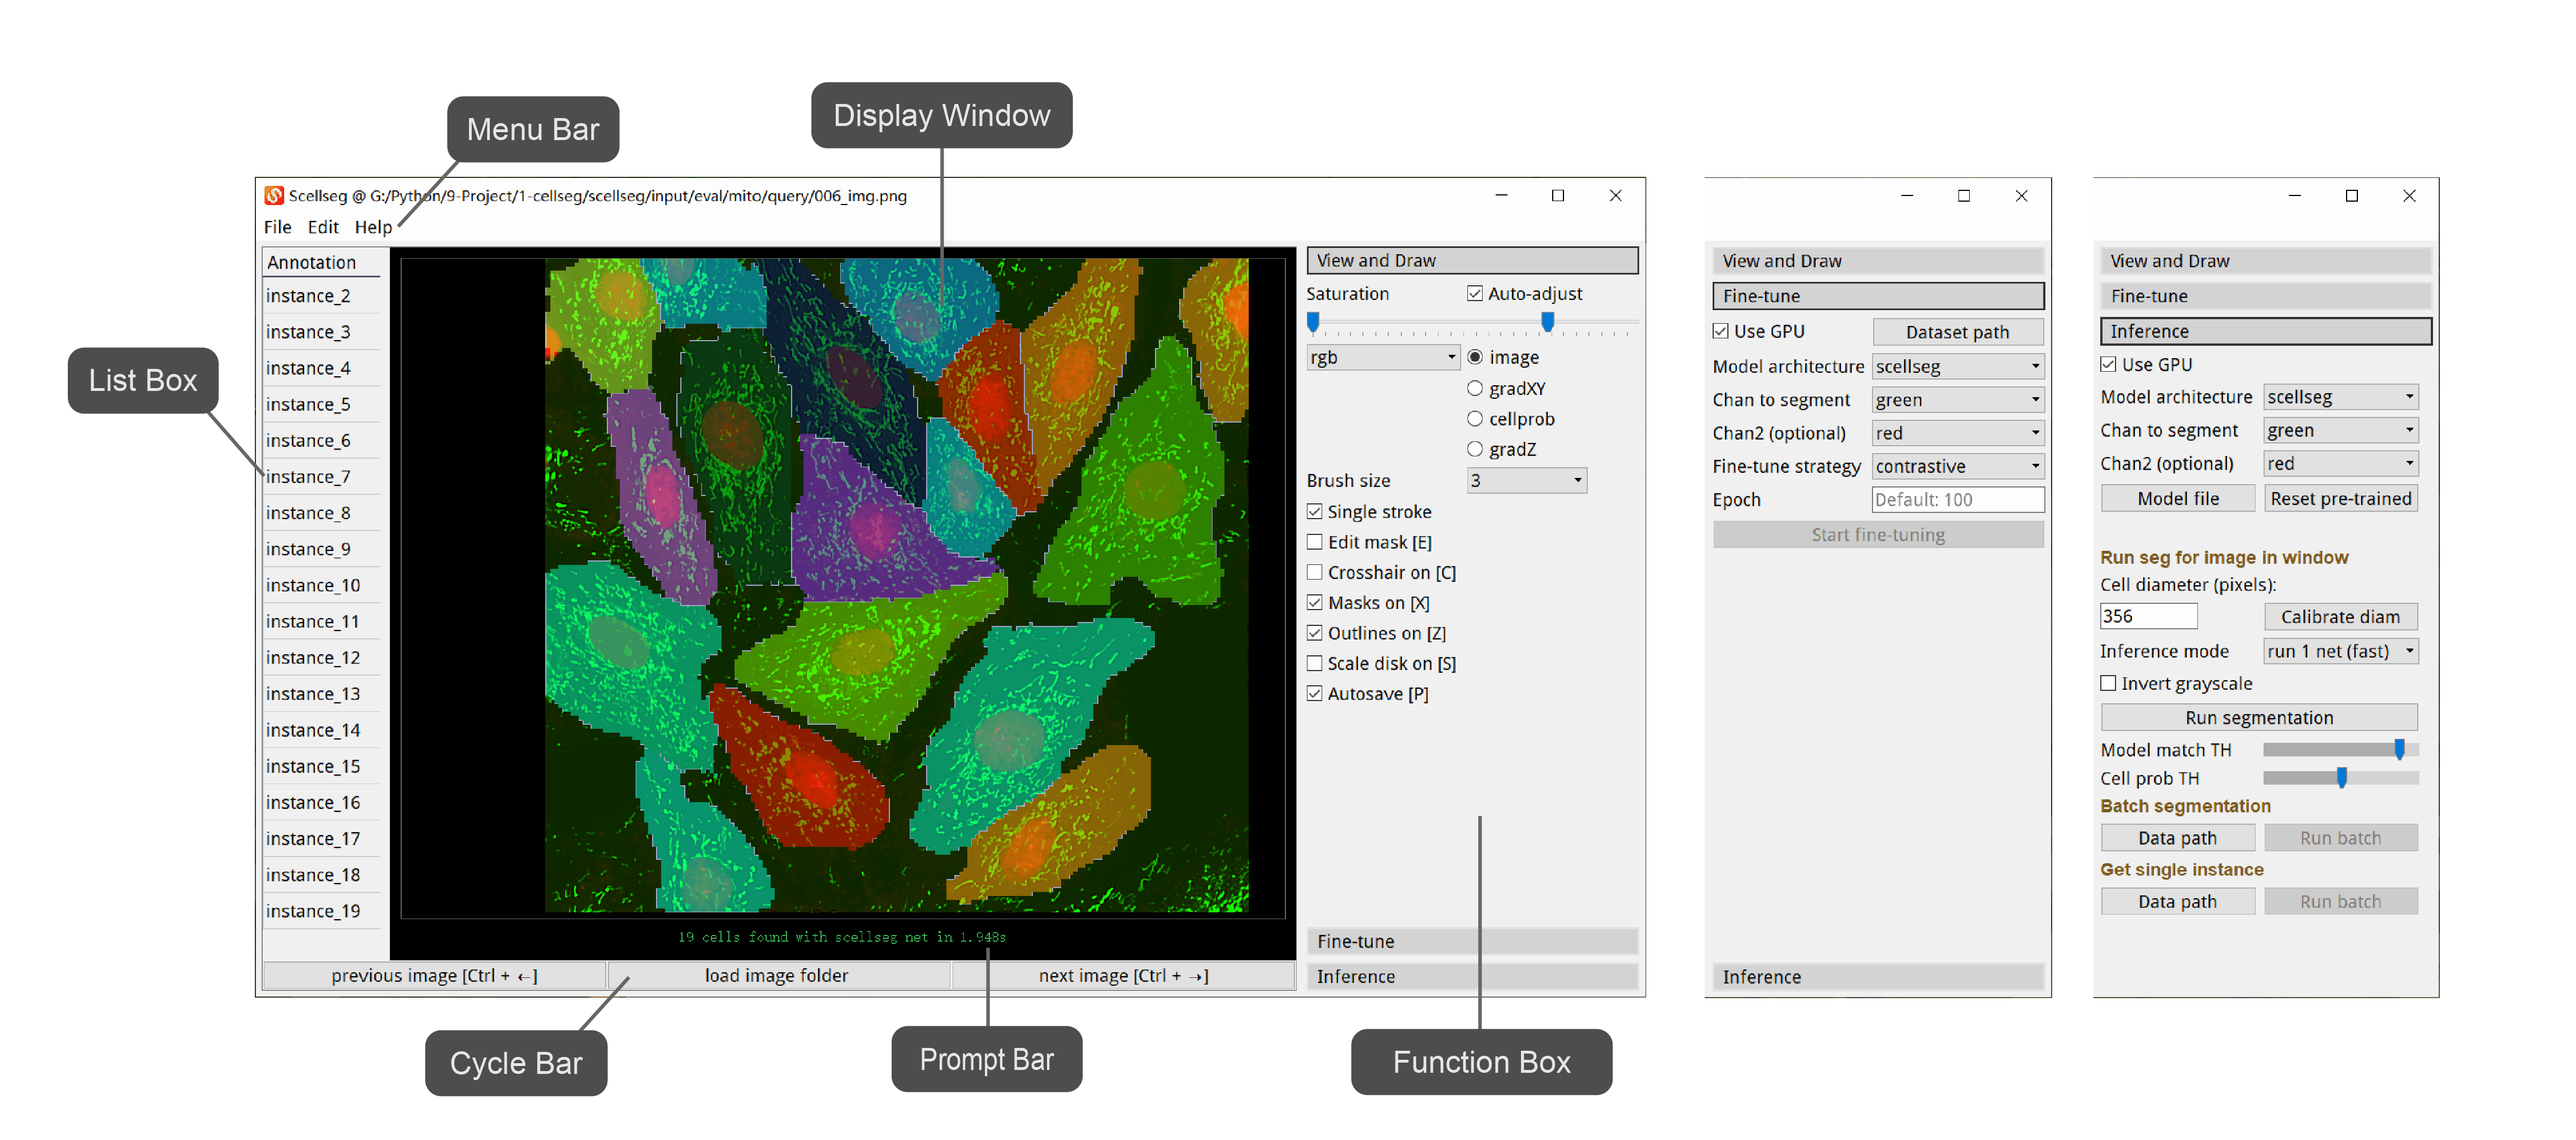
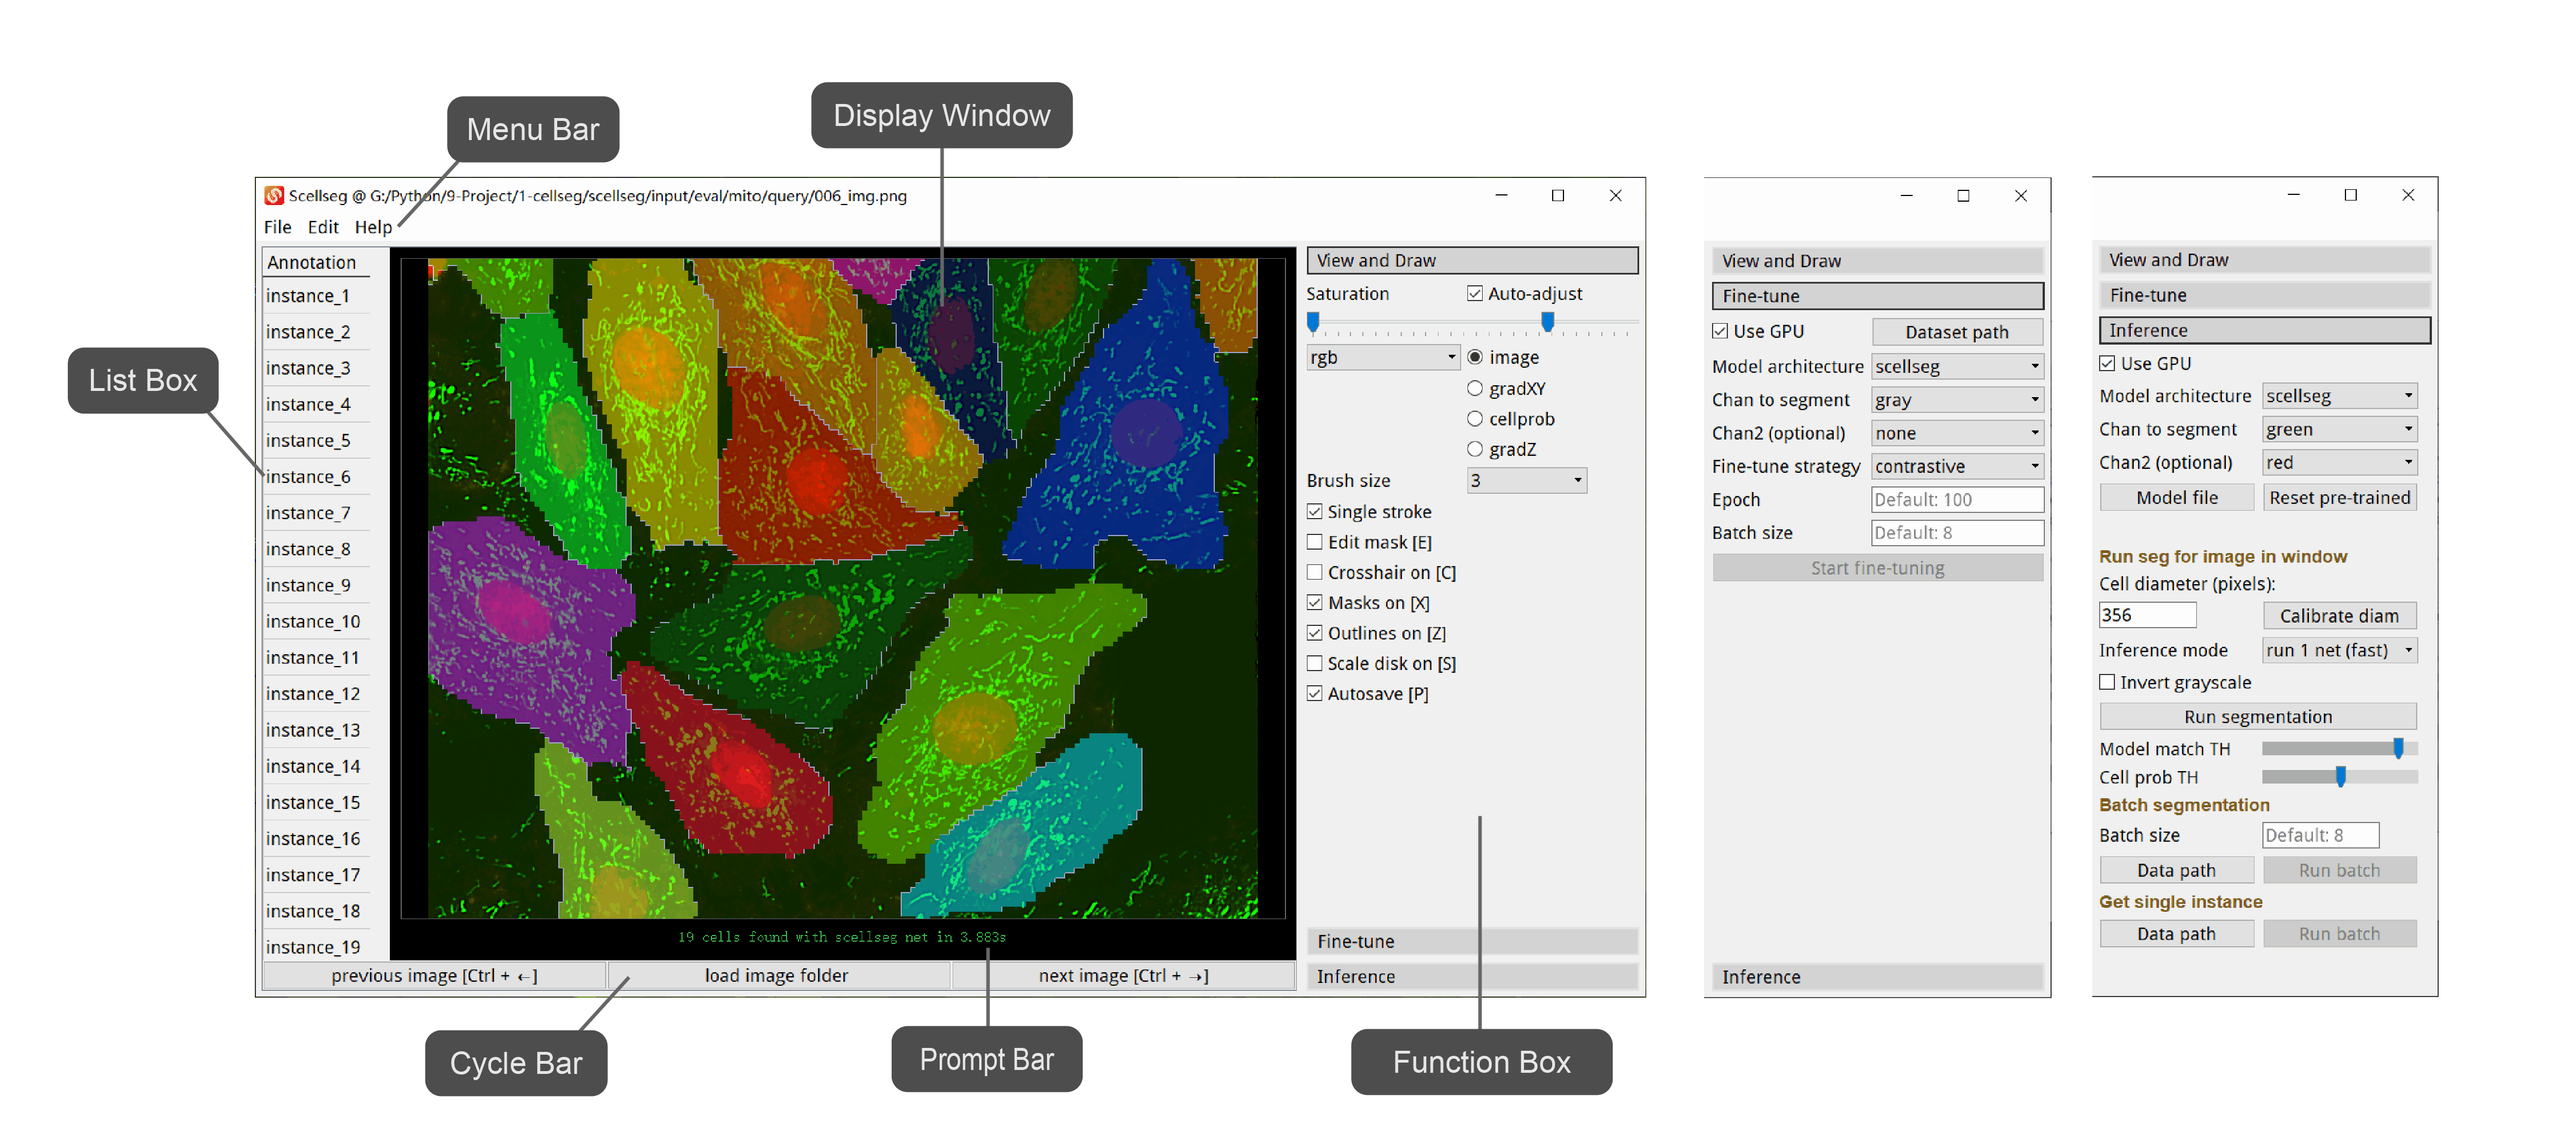
add batch_size

diff --git a/scellseg/guis/scellsegUi.py b/scellseg/guis/scellsegUi.py
@@ -454,6 +454,13 @@ class Ui_MainWindow(QtGui.QMainWindow):
         self.label_batchseg.setObjectName('label_batchseg')
         self.gridLayout_2.addWidget(self.label_batchseg, page2_l, 0, 1, 4)
         page2_l += 1
+        self.label_bz = QtWidgets.QLabel("Batch size")
+        self.gridLayout_2.addWidget(self.label_bz, page2_l, 0, 1, 1)
+        self.bz_line = QtWidgets.QLineEdit()
+        self.bz_line.setPlaceholderText('Default: 8')
+        self.bz_line.setFixedWidth(120)
+        self.gridLayout_2.addWidget(self.bz_line, page2_l, 1, 1, 1)
+        page2_l += 1
         self.dataset_inference_bnt = QtWidgets.QPushButton("Data path")
         self.gridLayout_2.addWidget(self.dataset_inference_bnt, page2_l, 0, 1, 1)
         self.dataset_inference_bnt.clicked.connect(self.batch_inference_dir_choose)
@@ -538,14 +545,20 @@ class Ui_MainWindow(QtGui.QMainWindow):
         self.epoch_line.setPlaceholderText('Default: 100')
         self.gridLayout_3.addWidget(self.epoch_line, 5, 2, 1, 2)
 
+        self.label_ftbz = QtWidgets.QLabel("Batch size")
+        self.gridLayout_3.addWidget(self.label_ftbz, 6, 0, 1, 2)
+        self.ftbz_line = QtWidgets.QLineEdit()
+        self.ftbz_line.setPlaceholderText('Default: 8')
+        self.gridLayout_3.addWidget(self.ftbz_line, 6, 2, 1, 2)
+
         self.ftbnt = QtWidgets.QPushButton("Start fine-tuning")
         self.ftbnt.setObjectName('ftbnt')
         self.ftbnt.clicked.connect(self.fine_tune)
-        self.gridLayout_3.addWidget(self.ftbnt, 6, 0, 1, 4)
+        self.gridLayout_3.addWidget(self.ftbnt, 7, 0, 1, 4)
         self.ftbnt.setEnabled(False)
 
         spacerItem3 = QtWidgets.QSpacerItem(20, 320, QtWidgets.QSizePolicy.Minimum, QtWidgets.QSizePolicy.Expanding)
-        self.gridLayout_3.addItem(spacerItem3, 7, 0, 1, 1)
+        self.gridLayout_3.addItem(spacerItem3, 8, 0, 1, 1)
 
         #initialize scroll size
         self.scroll = QtGui.QScrollBar(QtCore.Qt.Horizontal)
@@ -1296,6 +1309,7 @@ class Ui_MainWindow(QtGui.QMainWindow):
                     dataset_path = None
 
                 # batch inference
+                bz = 8 if self.bz_line.text() == '' else int(self.bz_line.text())
                 save_name = self.current_model + '_' + dataset_path.split('\\')[-1]
                 utils.set_manual_seed(5)
                 try:
@@ -1333,7 +1347,7 @@ class Ui_MainWindow(QtGui.QMainWindow):
                                                        diameter=diameter,
                                                        resample=False, flow_threshold=0.4,
                                                        cellprob_threshold=0.5,
-                                                       min_size=min_size, eval_batch_size=8,
+                                                       min_size=min_size, eval_batch_size=bz,
                                                        postproc_mode=self.model.postproc_mode,
                                                        progress=self.progress)
 
@@ -1712,14 +1726,14 @@ class Ui_MainWindow(QtGui.QMainWindow):
     def fine_tune(self):
         tic = time.time()
 
-        num_batch = 8
         dataset_dir = self.fine_tune_dir
         self.state_label.setText("%s"%(dataset_dir), color='#969696')
 
         if not isinstance(dataset_dir, str):  # TODO: 改成警告
             print('dataset_dir is not provided')
 
-        train_epoch = 100 if self.epoch_line.text() == '' else self.epoch_line.text()
+        train_epoch = 100 if self.epoch_line.text() == '' else int(self.epoch_line.text())
+        ft_bz = 8 if self.ftbz_line.text() == '' else int(self.ftbz_line.text())
         contrast_on = 1 if self.stmodelchooseBnt.currentText() == 'contrastive' else 0
         model_type = self.ftmodelchooseBnt.currentText()
         task_mode, postproc_mode, attn_on, dense_on, style_scale_on = utils.process_different_model(model_type)  # task_mode mean different instance representation
@@ -1728,9 +1742,10 @@ class Ui_MainWindow(QtGui.QMainWindow):
         print(dataset_dir, train_epoch, channels)
         utils.set_manual_seed(5)
         try:
+            print('ft_bz', ft_bz)
             shotset = DatasetShot(eval_dir=dataset_dir, class_name=None, image_filter='_img', mask_filter='_masks',
                                   channels=channels,
-                                  train_num=train_epoch * num_batch, task_mode=task_mode, rescale=True)
+                                  train_num=train_epoch * ft_bz, task_mode=task_mode, rescale=True)
             iopart._initialize_image_portable(self, iopart.imread(self.now_pyfile_path + '/assets/Loading1.png'), resize=self.resize, X2=0)
             self.state_label.setText("Running...", color='#969696')
             QtWidgets.qApp.processEvents()  # force update gui
@@ -1742,12 +1757,7 @@ class Ui_MainWindow(QtGui.QMainWindow):
             self.ftbnt.setEnabled(False)
             return
 
-        project_path = os.path.abspath(os.path.dirname(os.path.dirname(os.getcwd())) + os.path.sep + ".")
-        output_path = os.path.join(project_path, 'output')
-        utils.make_folder(output_path)
-        output_excel_path = os.path.join(output_path, 'excels')
-        utils.make_folder(output_excel_path)
-        shot_gen = DataLoader(dataset=shotset, batch_size=num_batch, num_workers=0, pin_memory=True)
+        shot_gen = DataLoader(dataset=shotset, batch_size=ft_bz, num_workers=0, pin_memory=True)
 
         diameter = shotset.md
         print('>>>> mean diameter of this style,', round(diameter, 3))
@@ -1775,11 +1785,11 @@ class Ui_MainWindow(QtGui.QMainWindow):
         self.state_label.setText("Running...", color='#969696')
         QtWidgets.qApp.processEvents()  # force update gui
 
-        self.model.finetune(shot_gen=shot_gen, lr=lr, lr_schedule_gamma=lr_schedule_gamma, step_size=step_size)
+        self.model.finetune(shot_gen=shot_gen, lr=lr, lr_schedule_gamma=lr_schedule_gamma, step_size=step_size, savepath=dataset_dir)
 
         print('Finished fine-tuning')
         self.img.setImage(iopart.imread(self.now_pyfile_path + '/assets/Loading3.png'), autoLevels=False, lut=None)
-        self.state_label.setText("Finished in %0.3fs, model saved at ./output/fine-tune/%s" %(time.time()-tic, self.model.net.save_name), color='#39B54A')
+        self.state_label.setText("Finished in %0.3fs, model saved at %s/fine-tune/%s" %(time.time()-tic, dataset_dir, self.model.net.save_name), color='#39B54A')
         self.ftbnt.setEnabled(False)
         self.fine_tune_dir = ''
 

diff --git a/scellseg/guis/guiparts.py b/scellseg/guis/guiparts.py
@@ -216,6 +216,7 @@ class HelpWindow(QtGui.QDialog):
             <li class="has-line-data"><em>Chan2 (optional):</em> &nbsp; You can provide anothor channel to help segmenting the instance.</li>
             <li class="has-line-data"><em>Fine-tune strategy:</em> &nbsp; We provide both contrastive and classic fine-tuning strageties, try different stragety if you need.</li>
             <li class="has-line-data"><em>Epoch:</em> &nbsp; The default epoch for fine-tuning is 100, which was used in our paper, you can input the appropriate epoch according to your own data.</li>
+            <li class="has-line-data"><em>Batch size:</em> &nbsp; The default batch size for fine-tuning is 8, which was used in our paper, you can input the appropriate epoch according to your own GPU.</li>
             </ul>
             <p class="has-line-data"><span style="color: #366c1a"><b>!NOTE4!: </b></span> The saved path of model file after fine-tuning is shown in the bottom of display window.</p>
             
@@ -240,7 +241,9 @@ class HelpWindow(QtGui.QDialog):
             <li class="has-line-data"><em>Cell prob TH:</em> &nbsp; After running segmentation, you can slide it for better performance, you can get the value by hoving on the slider. Default value is 0.5</li>
             </ul>
 
-            <p class="has-line-data"><strong>Batch segmentation / Get single instance: </strong> You can conduct batch segmentation or get single instance by providing the right data path, for "batch segmentation", data should be organized like parent folder, and for "get single instance", data should be organized like shot subfolder, here shot subfolder is not the specific "shot" folder, if just mean data should be organized like that.</p>
+            <p class="has-line-data"><strong>Batch segmentation / Get single instance: </strong> </p> 
+            <li class="has-line-data"><em>Batch size:</em> &nbsp; The default batch size for “Batch segmentation” is 8, which was used in our paper, you can input the appropriate epoch according to your own GPU.</li>
+            <p class="has-line-data"> You can conduct batch segmentation or get single instance by providing the right data path, for "batch segmentation", data should be organized like parent folder, and for "get single instance", data should be organized like shot subfolder, here shot subfolder is not the specific "shot" folder, if just mean data should be organized like that.</p>
             <p class="has-line-data"> <span style="color: #366c1a"><b>!NOTE6!: </b></span> We did not do any experiments on 3D images, there may be some bugs.</p>
             ''')
 

diff --git a/scellseg/models.py b/scellseg/models.py
@@ -301,10 +301,8 @@ class sCellSeg(UnetModel):
         tic = time.time()
         lavg, nsum = 0, 0
 
-        project_path = os.path.abspath(os.path.dirname(os.getcwd()) + os.path.sep + ".")
-        output_path = os.path.join(project_path, 'output')
-        utils.make_folder(output_path)
-        output_log_path = os.path.join(output_path, 'train_logs')
+        utils.make_folder(save_path)
+        output_log_path = os.path.join(save_path, 'train_logs')
         utils.make_folder(output_log_path)
         log_dir = os.path.join(output_log_path, d.strftime("%Y%m%d-%H%M"))
         if not os.path.isdir(log_dir):
@@ -421,7 +419,7 @@ class sCellSeg(UnetModel):
         return model_path
 
 
-    def finetune(self, shot_gen=None, lr=None, lr_schedule_gamma=None, step_size=20):
+    def finetune(self, shot_gen=None, lr=None, lr_schedule_gamma=None, step_size=20, savepath=None):
         """The function for the fine-tune phase."""
         assert shot_gen is not None, print('please provide shot images')
         self.net.train()
@@ -441,7 +439,10 @@ class sCellSeg(UnetModel):
 
         self.net.optimizer = self.set_optimizer(lr)
 
-        output_path = os.path.join(project_path, 'output')
+        if savepath is not None:
+            output_path = savepath
+        else:
+            output_path = project_path
         utils.make_folder(output_path)
         output_model_path = os.path.join(output_path, 'fine-tune')
         utils.make_folder(output_model_path)

diff --git a/run_net/scellseg_pretrain.py b/run_net/scellseg_pretrain.py
@@ -21,6 +21,6 @@ model = models.sCellSeg(diam_mean=30, gpu=use_GPU, pretrained_model=False, nclas
                         task_mode=task_mode)
 cpmodel_path = model.pretrain(train_data=images, train_labels=labels, train_files=files,
                            test_data=test_images, test_labels=test_labels, test_files=test_files,
-                           channels=[2, 1], save_path=output_path, n_epochs=5, learning_rate=0.2)
+                           channels=[2, 1], save_path=output_path, n_epochs=100, learning_rate=0.2)
 
 print('>>>> model trained and saved to %s'%cpmodel_path)

diff --git a/run_net/scellseg_finetune.py b/run_net/scellseg_finetune.py
@@ -65,4 +65,4 @@ for dataset_name in dataset_names:
     if contrast_on:
         model.net.pair_gen = DatasetPairEval(positive_dir=dataset_dir, use_negative_masks=False, gpu=use_GPU, rescale=True)
 
-    model.finetune(shot_gen=shot_gen, lr=lr, lr_schedule_gamma=lr_schedule_gamma, step_size=step_size)
+    model.finetune(shot_gen=shot_gen, lr=lr, lr_schedule_gamma=lr_schedule_gamma, step_size=step_size, savepath=dataset_dir)

diff --git a/README.md b/README.md
@@ -37,14 +37,12 @@ activate scellseg_env
 python -m scellseg
 ```
 
-If you have a GPU device and "Use GPU" can not be checked, you should check the version of "torch" and re-install the correct torch version suitable for your CUDA version (use "nvcc -V" to check your CUDA version), for example:
+If you have a GPU device and "Use GPU" in GUI is disabled, you should check the version of "torch" and re-install the correct torch version suitable for your CUDA version (use "nvcc -V" to check your CUDA version), for example:
 
 ```
 nvcc -V
-conda install pytorch torchvision torchaudio cudatoolkit=10.1 -c pytorch
+pip install torch==1.7.1+cu101 -f https://download.pytorch.org/whl/cu101/torch_stable.html
 ```
-
-
 
 ### How to use GUI	
 
@@ -70,15 +68,17 @@ conda install pytorch torchvision torchaudio cudatoolkit=10.1 -c pytorch
 
 	d) Set the epoch you want conduct, the default value is 100, which was used in our paper. You can increase the number for adequate training
 
-	e) You can select different pre-trained model ("Scellseg", "Cellpose", or "Hover") and fine-tuning strategy ("contrastive fine-tuning" or "classic fine-tuning")
+	e) Set the batch size according to your own GPU, the default value is 100, which was used in our paper
 
-	f) Click "Start fine-tuning" button to start fine-tuning. After fine-tuning, it will show the saved path of the model file in the bottom of display window
+	f) You can select different pre-trained model ("Scellseg", "Cellpose", or "Hover") and fine-tuning strategy ("contrastive fine-tuning" or "classic fine-tuning")
+
+	g) Click "Start fine-tuning" button to start fine-tuning. After fine-tuning, it will show the saved path of the model file in the bottom of display window (saved at a subfolder in parent folder named "fine-tune", mito-20211116/fine-tune")
 
 #### 3. Inference
 
 	a) There are two modes for inference,  (1) run segmentation for image in window (2) batch segmentation
 
-	b) If you want to conduct batch segmentation, click "Data path" to choose the parent folder of your dataset, such as "mito-20211116" 
+	b) If you want to conduct batch segmentation, click "Data path" to choose the parent folder of your dataset, such as "mito-20211116" , and set the adequate batch size according to your own GPU
 
 	c) You can choose your own model file for inference, the default is the pre-trained Scellseg model file
 
